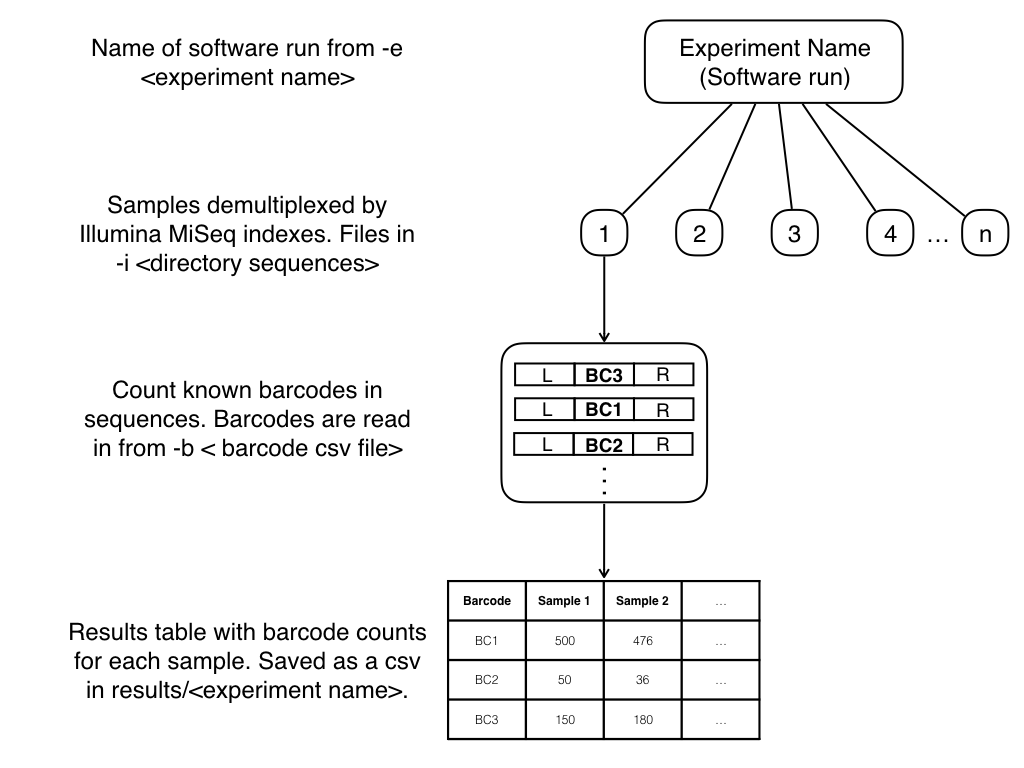
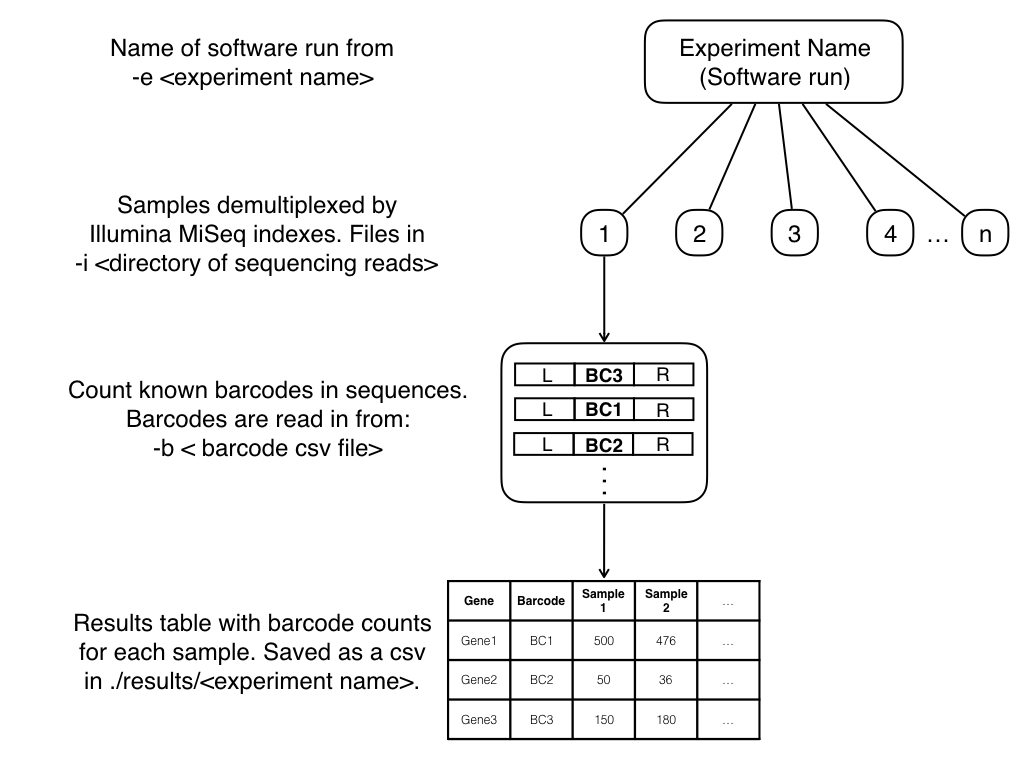
Darft 2 of diagram, small changes to tests

diff --git a/barseq/tests/test_functions.py b/barseq/tests/test_functions.py
@@ -6,8 +6,8 @@ Test module for testing functions in barseq.
 """
 
 # Module import
-from BarSeq.utils import read_barcodes, format_filename
-from BarSeq.main import Run
+from barseq.utils import read_barcodes, format_filename
+from barseq.main import Run
 
 __author__ = "Emanuel Burgos"
 __email__ = "eburgos@wisc.edu"
@@ -15,9 +15,18 @@ __email__ = "eburgos@wisc.edu"
 
 def test_read_tab_delimited_barcodes():
     barcode_file = "BarSeq/tests/data/input/samples.csv"
-    output_d = {'AGGGCCATTTATATACC': {'count': 0, 'gene': 'gene1::bar1'},
-                'AGGGCCAGGGATATACC': {'count': 0, 'gene': 'gene2::bar2'},
-                'ACCCCCATGTATATATC': {'count': 0, 'gene': 'gene3::bar3'},
+    output_d = {'ATGAAGACTGTTGCCGTA': {'count': 0, 'gene': 'bar1'},
+                'CACGACGCCCTCCGCGGA': {'count': 0, 'gene': 'bar2'},
+                'ACTATTACGCAAAATAAT': {'count': 0, 'gene': 'bar3'},
+                'ATGGAAGATATTATTATT': {'count': 0, 'gene': 'bar4'},
+                'CCTCTCCAACCGGGTCTG': {'count': 0, 'gene': 'bar5'},
+                'CCCGGTCGCCTAGCCCCG': {'count': 0, 'gene': 'bar6'},
+                'GGCCCCCCGCCCGTCCCC': {'count': 0, 'gene': 'bar7'},
+                'GGATCACTGCTAGCGTAT': {'count': 0, 'gene': 'bar8'},
+                'CCTGCAGCAGCGGCCCGC': {'count': 0, 'gene': 'bar9'},
+                'ACACATGCAGACATAGAG': {'count': 0, 'gene': 'bar10'},
+                'CGCGCCATCCGCCGCCCA': {'count': 0, 'gene': 'bar11'},
+                'AATATTCAGATGGGACGT': {'count': 0, 'gene': 'bar12'},
                 '_other': {"gene": "_other", "count": 0}
                 }
     assert output_d == read_barcodes(barcode_file)
@@ -29,11 +38,10 @@ def test_format_filename():
     assert "weird_file-name_" == format_filename("weird:_file-%$name_='][     ")
 
 
-
 # def test_Run_class():
 #     run = Run("input_test", "barcodes_test", "experiment_test")
 #     assert run.sequences == "input_test"
 #     assert run.barcodes == "barcodes_test"
 #     assert run.experiment == "experiment_test"
-#     assert run.path == "results/experiment_test"
+#     assert run.path == "results/experiment_test/"
 #     assert type(run.sample_dict) == dict

diff --git a/barseq/utils.py b/barseq/utils.py
@@ -21,7 +21,6 @@ logging.basicConfig(
     format="%(asctime)s - %(levelname)s - %(module)s - %(message)s",
     datefmt="%Y-%m-%d %H:%M",
 )
-
 # Get logger
 logger = logging.getLogger("barseq")
 
@@ -74,10 +73,13 @@ def write_output(sample_dict: dict, barcode_dict: dict, runner) -> None:
     |   Gene 1   | ATCGCGT |     500     |     10      | ... |
 
     """
-    # Get gene index
-    genes = {barcode_dict[bar]["gene"]: bar for bar in barcode_dict}
-    df = pd.DataFrame.from_dict(genes, orient="index", columns=["Barcode"])
-
+    # Grab barcode and gene index
+    index = list(sample_dict.values())[0]
+    s_genes = pd.Series(data=[d["gene"] for d in index.values()], name="Gene")
+    s_barcodes = pd.Series(data=[k for k in index.keys()], name="Barcodes")
+    # Join them
+    df = pd.concat([s_genes, s_barcodes], axis=1).set_index("Gene")
+    # Grab counts from sample and add to df
     for sample in sample_dict:
         counts = {count_dict["gene"]: count_dict["count"] for count_dict in sample_dict[sample].values()}
         sample_df = pd.DataFrame.from_dict(counts, orient="index", columns=[sample])
@@ -87,8 +89,7 @@ def write_output(sample_dict: dict, barcode_dict: dict, runner) -> None:
     return
 
 
-
-def format_filename(name:str) -> str:
+def format_filename(name: str) -> str:
     """
     Converts input into a valid name for file and recording results
 
@@ -118,3 +119,6 @@ def make_barseq_directories(runner) -> None:
     runner.path = results_folder
     return
 
+
+if __name__ == '__main__':
+    pass

diff --git a/barseq/main.py b/barseq/main.py
@@ -41,10 +41,10 @@ class Run:
         self.experiment = args.experiment
         self.sequences = args.input
         self.barcodes = args.barcodes
-        #self.barseq_sample_collection = list()
+        # self.barseq_sample_collection = list()
         self.sample_dict = dict()
-        self.path = f"results/{self.experiment}"
-
+        self.path = f"results/{self.experiment}/"
+        self.log = f"{self.path}log.txt"
 
 
 class SampleRecord:
@@ -63,12 +63,16 @@ def main(args) -> None:
     I just need the algorithm worked out.
 
     """
-    # Add file handler
-    logger.addHandler( logging.)
-    logger.info("***** Starting barseq *****")
     # ---- SET UP SETTINGS ---- #
     runner = Run(args)
     make_barseq_directories(runner)
+    # Add file handler
+    fh = logging.FileHandler(runner.log, mode="w")
+    fh.setFormatter(logging.Formatter(
+        "%(asctime)s - %(levelname)s - %(module)s - %(message)s",
+        datefmt="%Y-%m-%d %H:%M"))
+    logger.addHandler(fh)
+    logger.info("***** Starting barseq *****")
     # Read in barcode
     logger.info(f"Reading in barcodes from {runner.barcodes}")
     barcodes = read_barcodes(runner.barcodes)

diff --git a/barseq/tests/test_setup.py b/barseq/tests/test_setup.py
@@ -27,7 +27,7 @@ def temp_dir(tmp_path_factory: Path, request):
     # Create temporary directory
     tmpdir = tmp_path_factory.mktemp("test")
     # Copy test data into temp directory
-    shutil.copytree("tests/data", tmpdir.joinpath("data"))
+    shutil.copytree("barseq/tests/data", tmpdir.joinpath("data"))
     def get_tmp_path(filename=[]) -> str:
         """
         Getter for file path in tmpdir

diff --git a/setup.py b/setup.py
@@ -32,6 +32,7 @@ def main():
         version=__version__,
         description="None",
         long_description_type="text/markdown",
+        long_description=_long_description,
         url="None",
         author="Emanuel Burgos",
         author_email="eburgos@wisc.edu",

diff --git a/barseq/process_reads.py b/barseq/process_reads.py
@@ -58,3 +58,7 @@ def count_barcodes(seq_file, barcode_dict) -> None:
     logger.info(f"Reads without barcode match: {barcode_dict['_other']['count']} for {seq_file}")
 
     return
+
+
+if __name__ == '__main__':
+    pass

diff --git a/README.md b/README.md
@@ -13,7 +13,7 @@ pip install git+https://github.com/mjmlab/barseq.git@master
 ### Usage
 
 ```bash
-barseq -i <directory sequences> -b <barcode file> -e <experiment name>
+barseq -i <directory of sequencing reads> -b <barcode file> -e <experiment name>
 ```
 
 `-i` / `--input`
